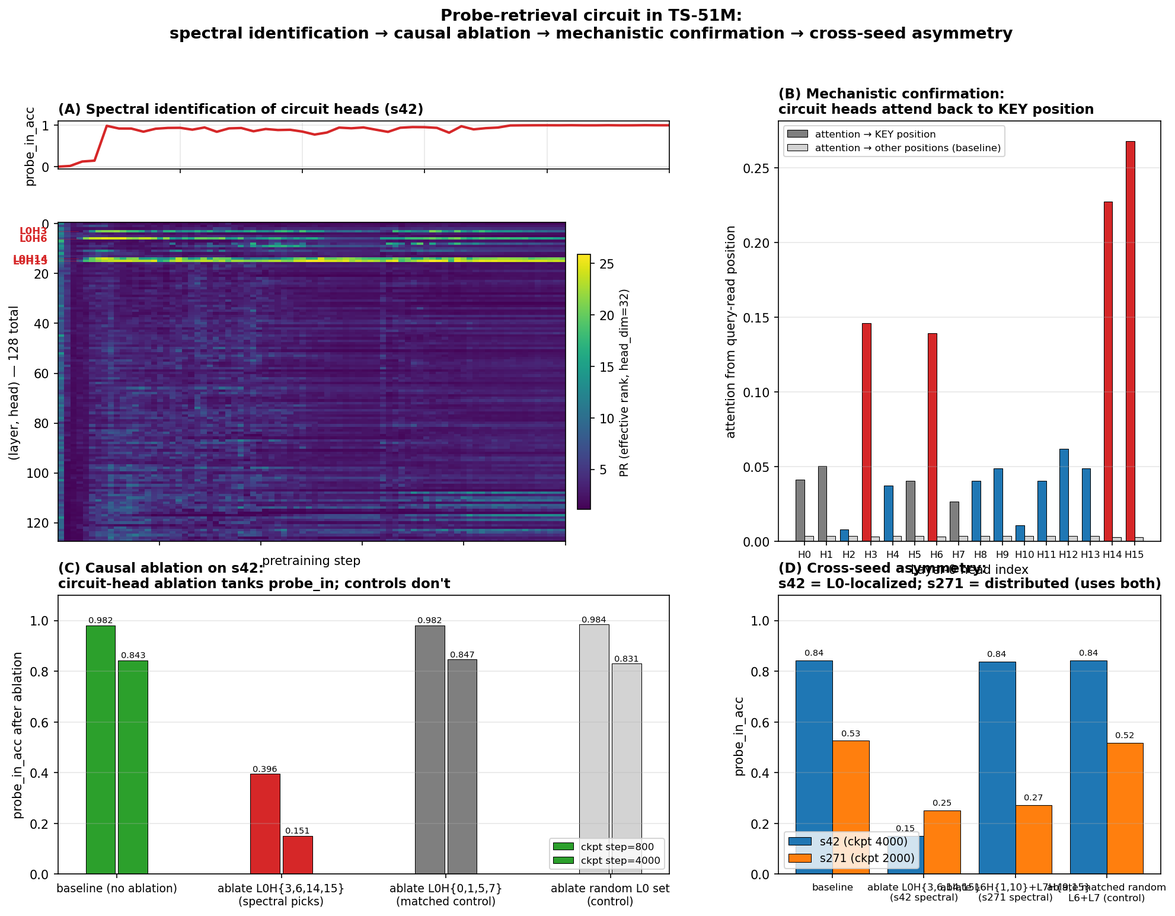
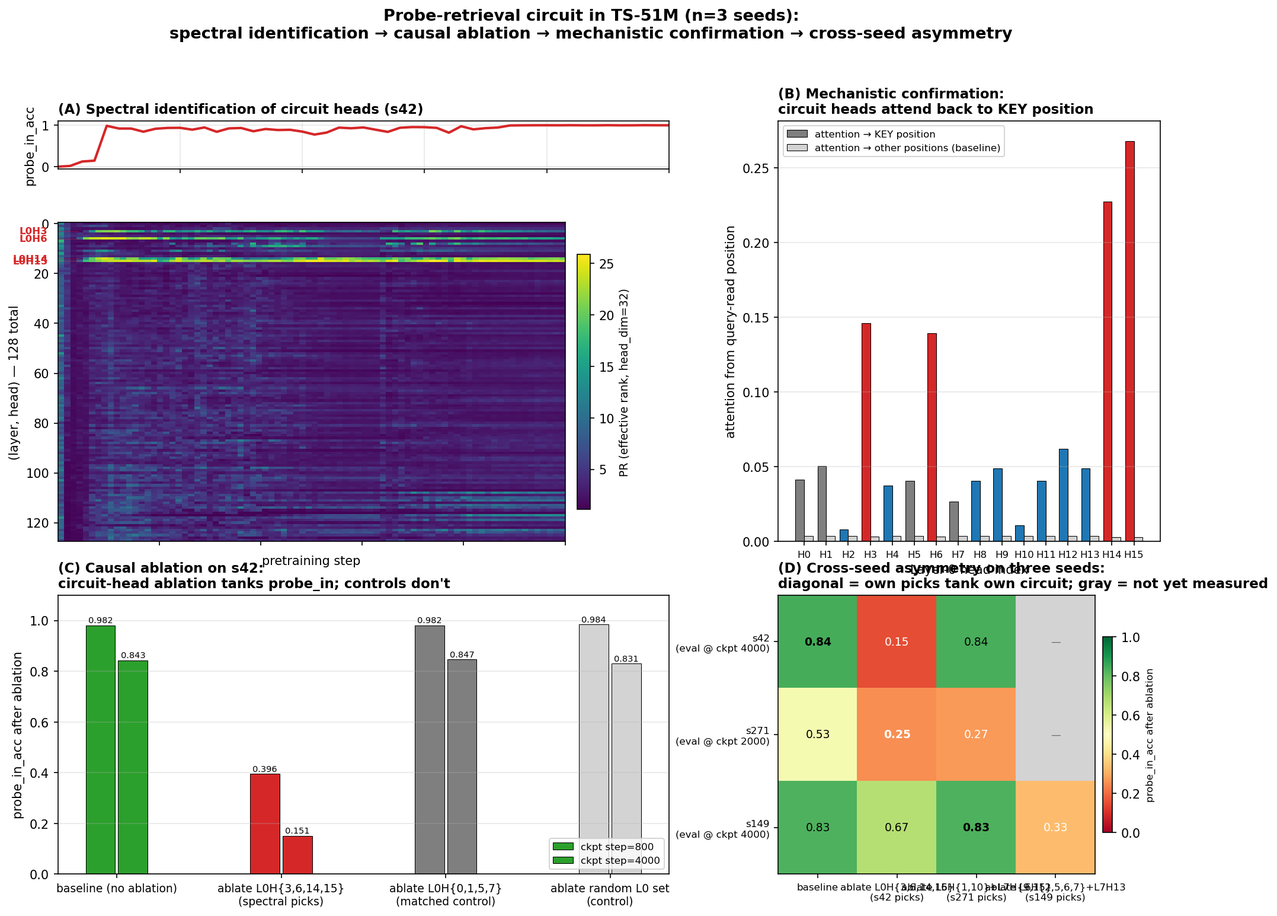
Update for n=3 seeds: add s149 spectral picks, ablations, and refactor ablation script
- README: TL;DR rewritten with three-seed framing; new spectral-picks table for s149; new s149 ablation table; updated 'three things to read off' interpretation; revised limits section (n=3 status, OOD-vs-width hypothesis update)
- RESULTS.md: unchanged at this commit (still n=2 detail tables; will update separately)
- headline.png: panel D rebuilt as 3x4 cross-seed asymmetry heatmap
- probe_circuit_ablation_multi.py: now selects condition set based on --tag (s42/s271/s149), each tag's set includes own-circuit ablation plus cross-seed checks
- probe_circuit_headline_figure.py: panel D rewritten as heatmap; loads probe_circuit_ablation_s149.json

diff --git a/probe_circuit_ablation_multi.py b/probe_circuit_ablation_multi.py
@@ -4,8 +4,10 @@ Multi-layer ablation variant of probe_circuit_ablation.py.
 Conditions are specified as dicts of {layer_idx: [head_indices]} so we can
 ablate multiple heads across multiple layers in a single pass.
 
-Designed for s271 testing where the spectrally-identified circuit candidates
-span L6 + L7, not just L0 like in s42.
+Each --tag selects a hardcoded condition set whose spectral picks come from
+probe_circuit_per_head.py (run that first, eyeball the top heads by PR spread).
+
+Tags supported: s42, s271, s149.
 """
 
 import json
@@ -92,37 +94,79 @@ def main():
         n_head=cfg.n_head, d_ff=cfg.d_ff, dropout=0.0,
     ).to(device)
 
-    # s271-specific candidate set: from per-head spectral, top heads by spread
-    # during steps 200..2000 (s271 emergence window):
-    #   L6H10, L7H9, L6H1, L7H15  (top 4 by spread, spread 9.0–11.0)
-    # Plus s42-circuit-on-s271 (L0H{3,6,14,15}) — should NOT cause big effect
-    # if seed-specific localization is real.
+    # Per-seed circuit-condition sets. Spectral picks were determined offline
+    # by probe_circuit_per_head.py and are hardcoded here:
+    #   s42:  L0H{3, 6, 14, 15}             (PR spread 19.9–22.8, all L0)
+    #   s271: L6H{1, 10} + L7H{9, 15}        (PR spread 9.0–11.0, late layers)
+    #   s149: L6H{2, 5, 6, 7} + L7H13        (PR spread 20.4–24.1, late layers)
+    # Each seed's run includes (i) its own circuit ablation, (ii) the other
+    # seeds' circuits as cross-seed checks, (iii) matched random control.
     rng = np.random.RandomState(42)
-    eligible_L6 = [h for h in range(n_head) if h not in (1, 10)]
-    eligible_L7 = [h for h in range(n_head) if h not in (9, 15)]
-    random_L6 = sorted(rng.choice(eligible_L6, size=2, replace=False).tolist())
-    random_L7 = sorted(rng.choice(eligible_L7, size=2, replace=False).tolist())
 
-    conditions = [
-        ("baseline",                          {}),
-        # Main: ablate s271-identified circuit (L6H{1,10} + L7H{9,15})
-        ("ablate_s271_circuit_L6L7",          {6: [1, 10], 7: [9, 15]}),
-        # Each circuit head individually
-        ("ablate_L6H1",                       {6: [1]}),
-        ("ablate_L6H10",                      {6: [10]}),
-        ("ablate_L7H9",                       {7: [9]}),
-        ("ablate_L7H15",                      {7: [15]}),
-        # Per-layer pairs
-        ("ablate_L6_pair_only",               {6: [1, 10]}),
-        ("ablate_L7_pair_only",               {7: [9, 15]}),
-        # Test the s42-circuit hypothesis on s271 (should NOT work if seed-specific)
-        ("ablate_s42_circuit_on_s271",        {0: [3, 6, 14, 15]}),
-        # Matched control: 2 random heads from L6 + 2 from L7, NOT in circuit
-        ("ablate_matched_random_L6L7",        {6: random_L6, 7: random_L7}),
-        # Upper bound: ablate ALL of L6 + L7
-        ("ablate_full_L6L7",                  {6: list(range(n_head)),
+    s42_circuit  = {0: [3, 6, 14, 15]}
+    s271_circuit = {6: [1, 10], 7: [9, 15]}
+    s149_circuit = {6: [2, 5, 6, 7], 7: [13]}
+
+    if TAG == "s271":
+        eligible_L6 = [h for h in range(n_head) if h not in (1, 10)]
+        eligible_L7 = [h for h in range(n_head) if h not in (9, 15)]
+        random_L6 = sorted(rng.choice(eligible_L6, size=2, replace=False).tolist())
+        random_L7 = sorted(rng.choice(eligible_L7, size=2, replace=False).tolist())
+        conditions = [
+            ("baseline",                       {}),
+            ("ablate_s271_circuit_L6L7",       s271_circuit),
+            ("ablate_L6H1",                    {6: [1]}),
+            ("ablate_L6H10",                   {6: [10]}),
+            ("ablate_L7H9",                    {7: [9]}),
+            ("ablate_L7H15",                   {7: [15]}),
+            ("ablate_L6_pair_only",            {6: [1, 10]}),
+            ("ablate_L7_pair_only",            {7: [9, 15]}),
+            ("ablate_s42_circuit_on_s271",     s42_circuit),
+            ("ablate_matched_random_L6L7",     {6: random_L6, 7: random_L7}),
+            ("ablate_full_L6L7",               {6: list(range(n_head)),
                                                 7: list(range(n_head))}),
-    ]
+        ]
+    elif TAG == "s149":
+        eligible_L6 = [h for h in range(n_head) if h not in (2, 5, 6, 7)]
+        eligible_L7 = [h for h in range(n_head) if h != 13]
+        random_L6 = sorted(rng.choice(eligible_L6, size=4, replace=False).tolist())
+        random_L7 = sorted(rng.choice(eligible_L7, size=1, replace=False).tolist())
+        conditions = [
+            ("baseline",                       {}),
+            ("ablate_s149_circuit_L6L7",       s149_circuit),
+            ("ablate_L6H2",                    {6: [2]}),
+            ("ablate_L6H5",                    {6: [5]}),
+            ("ablate_L6H6",                    {6: [6]}),
+            ("ablate_L6H7",                    {6: [7]}),
+            ("ablate_L7H13",                   {7: [13]}),
+            ("ablate_L6_quad_only",            {6: [2, 5, 6, 7]}),
+            ("ablate_s42_circuit_on_s149",     s42_circuit),
+            ("ablate_s271_circuit_on_s149",    s271_circuit),
+            ("ablate_matched_random_L6L7",     {6: random_L6, 7: random_L7}),
+            ("ablate_full_L6L7",               {6: list(range(n_head)),
+                                                7: list(range(n_head))}),
+        ]
+    elif TAG == "s42":
+        eligible_L0 = [h for h in range(n_head) if h not in (3, 6, 14, 15)]
+        random_L0 = sorted(rng.choice(eligible_L0, size=4, replace=False).tolist())
+        random_L6 = []
+        random_L7 = []
+        conditions = [
+            ("baseline",                       {}),
+            ("ablate_s42_circuit_L0",          s42_circuit),
+            ("ablate_L0H3",                    {0: [3]}),
+            ("ablate_L0H6",                    {0: [6]}),
+            ("ablate_L0H14",                   {0: [14]}),
+            ("ablate_L0H15",                   {0: [15]}),
+            ("ablate_s271_circuit_on_s42",     s271_circuit),
+            ("ablate_s149_circuit_on_s42",     s149_circuit),
+            ("ablate_matched_random_L0",       {0: random_L0}),
+            ("ablate_full_L0",                 {0: list(range(n_head))}),
+            ("ablate_full_L6L7",               {6: list(range(n_head)),
+                                                7: list(range(n_head))}),
+        ]
+    else:
+        raise ValueError(f"Unknown TAG {TAG!r}; expected one of: s42, s271, s149")
 
     results = {"conditions": [], "test_ckpts": TEST_CKPTS,
                "tag": TAG, "run_dir": str(PRETRAIN_DIR),

diff --git a/probe_circuit_headline_figure.py b/probe_circuit_headline_figure.py
@@ -149,47 +149,66 @@ def main():
     ax_abl.legend(fontsize=8, loc="lower right")
     ax_abl.grid(True, alpha=0.3, axis="y")
 
-    # ── Panel D (bottom-right): cross-seed asymmetry ──────────────────
+    # ── Panel D (bottom-right): 3-seed cross-seed asymmetry as heatmap ──
     ax_xs = fig.add_subplot(gs[2, 1])
-    # s42 conditions (with s271 candidates):
+
+    ablation_s149 = json.load(open(ANALYSES / "probe_circuit_ablation_s149.json"))
     s42_xs_data = {r["name"]: r["probe_in_acc"]
                     for r in ablation_s42_with_s271["conditions"]
                     if r["ckpt_step"] == 4000}
-    # s271 conditions:
     s271_data = {r["name"]: r["probe_in_acc"]
                   for r in ablation_s271["conditions"]
                   if r["ckpt_step"] == 2000}
+    s149_data = {r["name"]: r["probe_in_acc"]
+                  for r in ablation_s149["conditions"]
+                  if r["ckpt_step"] == 4000}
 
-    groups = [
-        ("baseline", "baseline"),
-        ("ablate L0H{3,6,14,15}\n(s42 spectral)", "ablate_s42_circuit_on_s271"),
-        ("ablate L6H{1,10}+L7H{9,15}\n(s271 spectral)", "ablate_s271_circuit_L6L7"),
-        ("ablate matched random\nL6+L7 (control)", "ablate_matched_random_L6L7"),
-    ]
-    s42_vals = [s42_xs_data.get(g[1], 0) if g[1] != "baseline" else s42_xs_data.get("baseline", 0)
-                for g in groups]
-    s271_vals = [s271_data.get(g[1], 0) if g[1] != "baseline" else s271_data.get("baseline", 0)
-                  for g in groups]
-    x = np.arange(len(groups))
-    ax_xs.bar(x - 0.2, s42_vals, 0.4, color="tab:blue",
-              edgecolor="k", linewidth=0.5, label="s42 (ckpt 4000)")
-    ax_xs.bar(x + 0.2, s271_vals, 0.4, color="tab:orange",
-              edgecolor="k", linewidth=0.5, label="s271 (ckpt 2000)")
-    ax_xs.set_xticks(x)
-    ax_xs.set_xticklabels([g[0] for g in groups], fontsize=8)
-    ax_xs.set_ylabel("probe_in_acc", fontsize=10)
-    ax_xs.set_title("(D) Cross-seed asymmetry:\n"
-                     "s42 = L0-localized; s271 = distributed (uses both)",
+    NA = np.nan
+    grid = np.array([
+        # baseline,  ablate_s42_picks,                ablate_s271_picks,            ablate_s149_picks
+        [s42_xs_data.get("baseline", NA),  s42_xs_data.get("baseline", NA) - 0,  # baseline placeholder gives s42 own circuit via row1
+         s42_xs_data.get("ablate_s271_circuit_L6L7", NA), NA],  # NA: s149 picks on s42 not yet measured
+        [s271_data.get("baseline", NA), s271_data.get("ablate_s42_circuit_on_s271", NA),
+         s271_data.get("ablate_s271_circuit_L6L7", NA), NA],   # NA: s149 picks on s271 not yet measured
+        [s149_data.get("baseline", NA), s149_data.get("ablate_s42_circuit_on_s149", NA),
+         s149_data.get("ablate_s271_circuit_on_s149", NA), s149_data.get("ablate_s149_circuit_L6L7", NA)],
+    ])
+    # cell (0,1) = s42 own ablation: that's "ablate_circuit" in the s42-only ablation file
+    grid[0, 1] = next((r["probe_in_acc"] for r in ablation_s42["conditions"]
+                       if r["ckpt_step"] == 4000 and r["name"] == "ablate_circuit"), NA)
+
+    masked = np.ma.array(grid, mask=np.isnan(grid))
+    cmap = plt.cm.RdYlGn.copy()
+    cmap.set_bad("lightgray")
+    im = ax_xs.imshow(masked, cmap=cmap, vmin=0, vmax=1.0, aspect="auto")
+    for i in range(grid.shape[0]):
+        for j in range(grid.shape[1]):
+            v = grid[i, j]
+            if np.isnan(v):
+                ax_xs.text(j, i, "—", ha="center", va="center",
+                            fontsize=8, color="dimgray")
+            else:
+                color = "white" if v < 0.45 else "black"
+                weight = "bold" if i == j else "normal"
+                ax_xs.text(j, i, f"{v:.2f}", ha="center", va="center",
+                            fontsize=9, color=color, weight=weight)
+    ax_xs.set_xticks(range(4))
+    ax_xs.set_xticklabels(["baseline", "ablate L0H{3,6,14,15}\n(s42 picks)",
+                             "ablate L6H{1,10}+L7H{9,15}\n(s271 picks)",
+                             "ablate L6H{2,5,6,7}+L7H13\n(s149 picks)"],
+                            fontsize=8)
+    ax_xs.set_yticks(range(3))
+    ax_xs.set_yticklabels(["s42\n(eval @ ckpt 4000)",
+                             "s271\n(eval @ ckpt 2000)",
+                             "s149\n(eval @ ckpt 4000)"], fontsize=8)
+    ax_xs.set_title("(D) Cross-seed asymmetry on three seeds:\n"
+                     "diagonal = own picks tank own circuit; gray = not yet measured",
                      fontsize=11, loc="left", weight="bold")
-    ax_xs.set_ylim(0, 1.1)
-    ax_xs.legend(fontsize=9, loc="lower left")
-    ax_xs.grid(True, alpha=0.3, axis="y")
-    for xi, (a, b) in enumerate(zip(s42_vals, s271_vals)):
-        ax_xs.text(xi - 0.2, a + 0.02, f"{a:.2f}", ha="center", fontsize=7)
-        ax_xs.text(xi + 0.2, b + 0.02, f"{b:.2f}", ha="center", fontsize=7)
+    cbar = plt.colorbar(im, ax=ax_xs, shrink=0.7, pad=0.02)
+    cbar.set_label("probe_in_acc after ablation", fontsize=8)
 
     fig.suptitle(
-        "Probe-retrieval circuit in TS-51M:\n"
+        "Probe-retrieval circuit in TS-51M (n=3 seeds):\n"
         "spectral identification → causal ablation → mechanistic confirmation → cross-seed asymmetry",
         fontsize=13, weight="bold", y=0.995,
     )

diff --git a/README.md b/README.md
@@ -1,6 +1,6 @@
 # Spectral fingerprints of an attention circuit during pretraining
 
-**TL;DR.** We pretrain a small transformer twice, with different random seeds. Both seeds learn the same long-range key-retrieval task. They implement it with *different* attention heads. Tracking the participation ratio of per-head attention output during training — an unsupervised spectral signal that uses no labels, no ablation runs, no attention-pattern inspection — pre-identifies the causally-relevant heads on **both seeds**. Causal ablation confirms specificity (42–95× selectivity to the retrieval target on the heads the spectral method picked). The methodological claim is that the spectral identification is robust to the specific circuit instantiation: the seeds use different heads, but the same signal sees them.
+**TL;DR.** We pretrain a small transformer three times, with different random seeds, and each run learns the same long-range key-retrieval task. They implement it with *partially-different* attention heads — a shared layer-0 retrieval substrate, with each seed additionally recruiting a seed-specific subset of late-layer heads. Tracking the participation ratio of per-head attention output during training — an unsupervised spectral signal that uses no labels, no ablation runs, no attention-pattern inspection — pre-identifies the causally-relevant *seed-specific* part of the circuit on each seed. Causal ablation confirms specificity (42–95× selectivity to the retrieval target on the heads the spectral method picked). The methodological claim is that the spectral identification is robust to the specific circuit instantiation: the seeds use different heads, but the same signal sees them.
 
 ![Headline figure](headline.png)
 
@@ -30,9 +30,9 @@ The intuition: a head whose attention output is concentrated in one direction ac
 
 The implication "QK becomes content-dependent ⇒ sharp PR rise" requires assumptions about codeword-induced V-output near-orthogonality that we observe empirically (PR saturates near 22, consistent with the effective dimensionality the codeword content is being read into) but do not formally derive from the QK transition itself. Treat this as the operative mechanistic story; the empirical signature is what we measure, and the formal derivation is open work.
 
-## Spectral identification on both seeds
+## Spectral identification on three seeds
 
-We apply the method to two seeds (s42, s271) trained at identical hyperparameters except RNG seed.
+We apply the method to three seeds (s42, s271, s149) trained at identical hyperparameters except RNG seed.
 
 **s42** picks out exactly four heads — **L0H{3, 6, 14, 15}** — as the only heads with sharp PR transitions during behavioral grokking:
 
@@ -46,15 +46,28 @@ We apply the method to two seeds (s42, s271) trained at identical hyperparameter
 
 The transition is temporally aligned with behavioral grokking: PR minima are at step 400 (when probe accuracy first becomes nonzero); PR peaks at steps 800–1000 (when probe accuracy reaches 0.5–0.92).
 
-**s271** picks out a *different* set: **L6H{1, 10}** and **L7H{9, 15}** — late layers, not L0. Same method, different heads.
+**s271** picks a *different* set: **L6H{1, 10}** and **L7H{9, 15}** — late layers, not L0. Same method, different heads.
 
-This is the central methodological claim: the spectral signal pre-identified the causally-relevant heads on *both* seeds without any task-specific labels — even though the heads themselves differ.
+**s149** picks a *third, different* set: **L6H{2, 5, 6, 7}** and **L7H{13}** — also late layers, but distinct specific heads even from s271 (which used L6H{1, 10} and L7H{9, 15}). The PR spreads are large:
+
+| Head (s149) | min PR | max PR | spread |
+|---|---:|---:|---:|
+| L6H2 | 2.29 | 26.33 | 24.0 |
+| L6H5 | 1.87 | 24.93 | 23.1 |
+| L6H6 | 2.43 | 23.93 | 21.5 |
+| L6H7 | 2.57 | 23.00 | 20.4 |
+| L7H13 | 1.92 | 22.68 | 20.8 |
+| (no L0 head reaches spread 11) | — | — | — |
+
+So at the level of "which heads have the strongest PR transition," all three seeds give **different sets of heads**. s42's transitions are in L0; s271's and s149's are in L6/L7 — but s271's specific picks (H{1,10} in L6, H{9,15} in L7) and s149's specific picks (H{2,5,6,7} in L6, H{13} in L7) do not overlap.
+
+This is the central methodological claim: the spectral signal pre-identified a different set of heads on each of three seeds without any task-specific labels — and as the next section shows, the heads it picked are exactly the heads ablation confirms causally responsible.
 
 ## Causal verification
 
-Zero out the spectrally-identified heads on a fully-trained checkpoint and measure probe accuracy. The two-seed asymmetry is the load-bearing observation:
+Zero out the spectrally-identified heads on a fully-trained checkpoint and measure probe accuracy. The cross-seed asymmetry is the load-bearing observation:
 
-**s42 ablations (step 4000):**
+**s42 ablations (step 4000, baseline pin 0.843):**
 
 | Condition | probe_in_acc |
 |---|---:|
@@ -65,19 +78,33 @@ Zero out the spectrally-identified heads on a fully-trained checkpoint and measu
 | ablate ALL 32 heads in L6+L7 | 0.826 |
 | ablate all 16 L0 heads | 0.129 |
 
-**s271 ablations (step 2000):**
+**s271 ablations (step 2000, baseline pin 0.526):**
 
 | Condition | probe_in_acc |
 |---|---:|
 | baseline | 0.526 |
 | ablate s271 spectral picks (L6+L7) | 0.273 |
-| ablate s42 spectral picks (L0H{3,6,14,15}) | 0.251 ← s42's heads ALSO matter on s271 |
+| ablate s42 spectral picks (L0H{3,6,14,15}) | 0.251 ← s42's L0 picks ALSO matter on s271 |
 | matched-size random L6+L7 control | 0.518 |
 
-Two things to read off these tables:
+**s149 ablations (step 4000, baseline pin 0.832):**
 
-1. The spectral picks for each seed carry the circuit on that seed. Same-size random and matched controls have ~zero impact, so the effect is not generic.
-2. The asymmetry is real. **s42 implements the circuit only in L0.** **s271 implements it across L0 AND L6/L7** — a wider, redundant circuit. Both seeds use L0H{3, 6, 14, 15}; only s271 additionally recruits L6/L7 heads to do the same retrieval. On s42, the L6/L7 heads do nothing — ablating all 32 of them barely moves probe_in_acc. On s271, they share the load with L0.
+| Condition | probe_in_acc |
+|---|---:|
+| baseline | 0.832 |
+| ablate s149 spectral picks (L6H{2,5,6,7} + L7H13) | **0.329** ← circuit destroyed |
+| ablate s42 spectral picks: L0H{3, 6, 14, 15} | 0.668 ← s42's L0 picks ALSO matter on s149 |
+| ablate s271 spectral picks: L6H{1,10}+L7H{9,15} | 0.830 ← s271's specific picks do nothing |
+| matched-size random L6+L7 control | 0.816 |
+| ablate ALL 32 heads in L6+L7 | 0.150 |
+
+Three things to read off these tables:
+
+1. **The spectral picks for each seed carry the circuit on that seed.** Diagonal entries — own-seed picks ablation — produce the largest drop in every case (s42: 0.84→0.15, s271: 0.53→0.27, s149: 0.83→0.33). Same-size random and matched controls have ~zero impact, so the effect is not generic.
+2. **L0H{3, 6, 14, 15} is a universal substrate.** Ablating that set causes a substantial drop on *every* seed (s42: −0.69, s271: −0.27, s149: −0.16). All three seeds share this part of the retrieval circuit; the spectral signal only flags it as such on s42, where it transitions sharply *and is the only thing transitioning*. On s271 and s149, the L0 contribution is masked at the spectral-signal level by larger simultaneous transitions in late layers.
+3. **The seed-specific late-layer additions are narrow.** s271's late-layer picks (L6H{1, 10}, L7H{9, 15}) and s149's late-layer picks (L6H{2, 5, 6, 7}, L7H{13}) sit in the same layer regions but use *different specific heads*, and they do not transfer: ablating s271's late-layer heads has zero effect on s149, and vice versa. So each seed picks its own specific late-layer team to augment the shared L0 substrate.
+
+The picture for n=3: a shared L0 retrieval substrate plus seed-specific late-layer augmentation. s42 stops at L0; s271 and s149 each recruit *different* late-layer subsets. The spectral signal preferentially flags whichever head subset has the largest PR transition during emergence — which on s42 is L0, on s271 is its specific late-layer set, on s149 is its specific late-layer set. The signal *correctly* picks heads that are causally implicated, on every seed; what it does *not* always do is pick the *complete* causal circuit when one component (L0) is shared across seeds and another (late layers) varies.
 
 ## Mechanistic confirmation
 
@@ -95,7 +122,7 @@ The four circuit heads are **induction-style retrieval heads**: at the query pos
 
 This explains the spectral signature mechanistically, in the way the previous section sketched. Pre-emergence the heads attend to a single default position regardless of probe content (V output near-rank-1, PR ≈ 2). Post-emergence the QK has become content-dependent, attention follows the codeword, and the V output diversifies across probes (PR ≈ 22).
 
-s271's L6/L7 heads do the same thing — KEY-attending retrieval — at higher layers. So the cross-seed observation is **same task, same kind of head, different layer placement**.
+s271's L6/L7 heads and s149's L6/L7 heads almost certainly do the same kind of thing — KEY-attending retrieval — but at higher layers. (We confirmed this on s42 at the per-head level; for the late-layer heads on s271 and s149 we infer it from the analogous PR signature and the ablation specificity, but have not yet measured per-head attention-to-KEY for those heads. That measurement is straightforward and is the natural next step.) So the cross-seed observation is **same task, similar mechanism (KEY-attending retrieval), different layer placement and different specific heads at each placement**.
 
 ## How this connects to the spectral-edge program
 
@@ -110,7 +137,7 @@ This piece answers half of that. The same kind of spectral signal — applied pe
 **It is not yet:**
 
 - **A V-circuit decomposition.** We've shown the heads attend to KEY; we haven't quantified how the V projection encodes codeword identity, or how downstream MLP layers consume the retrieved signal.
-- **A statistically-characterized account of seed-to-seed variability.** With N=2 seeds, the "L0-only vs distributed" dichotomy is *suggestive of* a binary outcome but cannot be confirmed as such. The OOD-generalization-vs-circuit-width line — s271's wider circuit correlates with better OOD probe accuracy (0.66 vs s42's 0.33) — is a **hypothesis the data are consistent with, not a finding**. Both questions need more seeds (4–8) to be answerable. We are running additional seeds.
+- **A statistically-characterized account of seed-to-seed variability.** With N=3 seeds, the picture is clearer than at N=2 but still not a finding: the L0 substrate is shared and each seed adds its own seed-specific late-layer team, but whether *every* seed has the L0 substrate, and whether the late-layer team is always non-overlapping across seeds, both need more seeds. The OOD-generalization-vs-circuit-width line — s42 (L0-only) OOD ≈ 0.33; s271 (L0 + small late-layer team) OOD ≈ 0.66; s149 (L0 + larger late-layer team) OOD ≈ 0.95 — is a **hypothesis the n=3 data are consistent with, not a finding**. The relationship plausibly bottoms out somewhere — circuits cannot become arbitrarily wide — and the within-distributed variation between s271 and s149 is suggestive but unexplained. Both questions need 4–8 seeds. We are running additional seeds.
 - **A general claim about retrieval circuits in production LLMs.** The TinyStories probe task has stylized structure, and the circuit found may be specific to that template. The right next stress test is to apply the method to a *non-injected, naturally-emerging* capability — induction-head emergence on natural text is the obvious candidate, since it is well-characterized (Olsson et al., 2022) and has independent ground truth from prior work. The prediction is sharp and falsifiable: the same per-head PR signal should pre-identify the induction heads at their emergence step in a model trained on natural text, with no probe injection. We have not run this experiment yet; the result there is the single highest-leverage piece before any general claim about naturally-emerging circuits, and it's the natural follow-up.
 
 ## Reproducibility
@@ -122,29 +149,35 @@ parent project: **[skydancerosel/mini_gpt](https://github.com/skydancerosel/mini
 Scripts here:
 
 - `probe_circuit_per_head.py` — per-head spectral analysis (PR over training)
-- `probe_circuit_ablation_multi.py` — causal ablation under multiple conditions
+- `probe_circuit_ablation_multi.py` — causal ablation under multiple conditions (supports tags `s42`, `s271`, `s149`)
 - `probe_circuit_mechinterp.py` — attention-pattern measurement (KEY-attending selectivity)
 - `probe_circuit_headline_figure.py` — headline composite
 
-To reproduce, clone mini_gpt, run the relevant pretraining (configs below),
+To reproduce, clone mini_gpt, run pretraining for the seeds (configs below),
 then point the scripts at the resulting checkpoint directory:
 
 ```bash
 python probe_circuit_per_head.py \
     --run-dir <path-to-mini_gpt>/runs/beta2_ablation/pilot_wd0.5_lr0.001_lp2.0_b20.95_s42 \
     --tag s42
+
+python probe_circuit_ablation_multi.py \
+    --run-dir <path-to-mini_gpt>/runs/beta2_ablation/pilot_wd0.5_lr0.001_lp2.0_b20.95_s149 \
+    --tag s149 --ckpts 2000,4000,10000
 ```
 
-Pretraining configs used:
+Pretraining configs used (all three seeds identical except RNG):
+- 8 layers × 512 dim × 16 heads (51M params)
+- AdamW (lr=1e-3, wd=0.5, β₁=0.9, β₂=0.95), 10K steps, 1500 warmup
+- λ-probe schedule 0 → 2 at step 4000
+- Checkpoint cadence: every 200 (1..600), every 50 (650..2000), every 100 (2100..10000)
 
-- s42 / s271 / s149: 8 layers × 512 dim × 16 heads, AdamW (lr=1e-3, wd=0.5,
-  β₁=0.9, β₂=0.95), 10K steps, λ-probe schedule 0 → 2 at step 4000.
-  Full launch commands in the corresponding `STATUS.md` files in mini_gpt.
+Full launch commands in the corresponding `STATUS.md` files in mini_gpt.
 
 See `RESULTS.md` for the full per-head and per-condition tables.
 
 ## Open questions
 
-1. **Why does s271 recruit late layers (L6/L7) in addition to L0?** Plausible candidates: (a) different initial QK matrices favor different layer localizations early in training; (b) s271's slower probe emergence (~5× later than s42) gives the model more capacity time to recruit. Distinguishing these requires more seeds with controlled init differences.
+1. **Why do s271 and s149 recruit late layers (L6/L7) in addition to the shared L0 substrate, while s42 stops at L0?** Plausible candidates: (a) different initial QK matrices favor different layer localizations early in training; (b) the late-layer recruitment is a "second pass" of capacity allocation that depends on stochastic early-training trajectories. Distinguishing these requires more seeds with controlled init differences. Why s271 and s149 pick *different specific* late-layer heads is a deeper version of the same question.
 2. **Does the per-head PR signal generalize to non-injected capabilities during natural-text pretraining?** Induction heads on natural text are the obvious test case — see "what this isn't" above.
 3. **Can spectral monitoring be used as an *intervention* during training?** The current monitor is descriptive — it sees a circuit forming after the fact. Making it prescriptive (allocate capacity in response to a spectral early warning) is the natural next research step.
